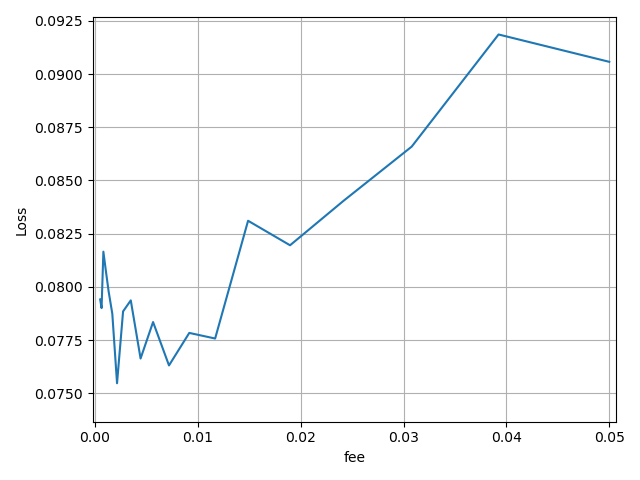
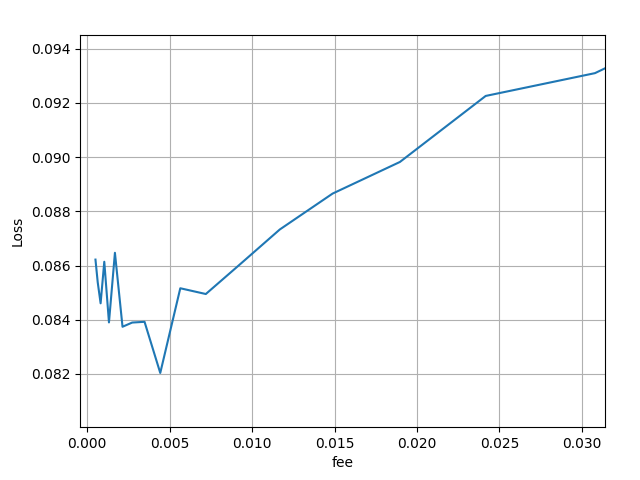
Simulations for ARB token

diff --git a/example_arb/2_simulate_A.py b/example_arb/2_simulate_A.py
@@ -7,7 +7,7 @@ if __name__ == '__main__':
         'data/arbusdt-1m.json.gz',
         A=[int(a) for a in logspace(log10(10), log10(1000), 20)],
         range_size=4,
-        fee=0.007,
+        fee=0.0045,
         Texp=600
     )
 
